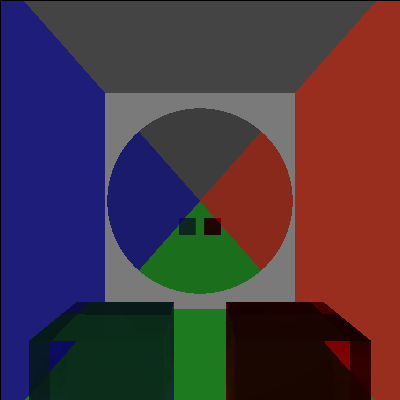
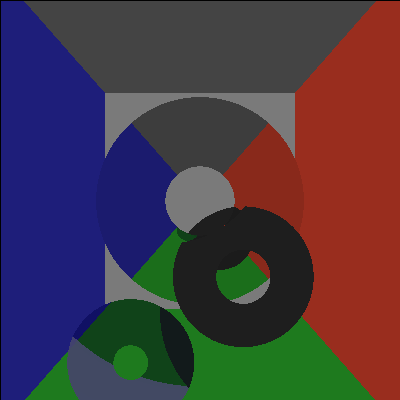
Donut

Changed region(s): [[0.06, 0.24, 0.93, 1.0]]

diff --git a/figuras.py b/figuras.py
@@ -140,6 +140,48 @@ class AABB(Shape):
                             texcoords=(u,v),
                             obj=self)
 
+
+"""
+    Pregunta a ChatGPT: Tengo la clase Disk y Plane. Plane dibuja un plano infinito utilizando lógica de RayTracer y Pygame.
+    Disk genera un disco delimitado por un radio que utiliza la clase Plane. Con ellas, ¿cómo puedo generar una clase 
+    que genere una figura similar a una dona?
+"""
+class Donut:
+    def __init__(self, position, material, major_radius, minor_radius):
+        self.position = position
+        self.material = material
+        self.major_radius = major_radius
+        self.minor_radius = minor_radius
+
+    def ray_intersect(self, origin, direction):
+        # Calcula la intersección con el plano central de la dona
+        central_plane = Plane(self.position, [0, 0, 1], self.material)
+        central_intercept = central_plane.ray_intersect(origin, direction)
+
+        if central_intercept is None:
+            return None
+
+        # Calcula la distancia al centro del toro
+        center_to_impact = restar_vectores(central_intercept.impact, self.position)
+        distance_to_center = magnitud(center_to_impact)
+
+        point = central_intercept.impact
+
+        # Comprueba si el punto de intersección está dentro del toro
+        if (distance_to_center >= self.minor_radius and
+                distance_to_center <= self.major_radius + self.minor_radius):
+            u = (1 + math.atan2(point[1], point[0]) / (2 * math.pi)) % 1
+            v = (magnitud(center_to_impact) - self.minor_radius) / (self.major_radius - self.minor_radius)
+
+            return Intercept(distance=distance_to_center,
+                            impact=central_intercept.impact,
+                            normal=central_intercept.normal,
+                            texcoords=(u,v),
+                            obj=self)
+
+
+        else:
+            return None
              
 
 

diff --git a/RT.py b/RT.py
@@ -32,16 +32,15 @@ rayTracer = RayTracer(screen)
 rayTracer.envMap = pygame.image.load("Textures/cielo.bmp")
 
 rayTracer.scene.append(Plane((0,0,-8),(0,0,-1),snow))
-rayTracer.scene.append(Disk((0,0,-7.85),(0,0,-1),mirror,2.1))
+rayTracer.scene.append(Donut((0,0,-5),mirror,1,0.5))
 rayTracer.scene.append(Plane((0,-2.5,0),(0,1,0),grass))
 rayTracer.scene.append(Plane((0,2.5,0),(0,-1,0),stone))
 rayTracer.scene.append(Plane((2.2,0,0),(-1,0,0),brick))
 rayTracer.scene.append(Plane((-2.2,0,0),(1,0,0),water))
 
 
-
-rayTracer.scene.append(AABB((-0.5,-1,-2),(0.65,0.65,0.65),diamond))
-rayTracer.scene.append(AABB((0.5,-1,-2),(0.65,0.65,0.65),ruby))
+rayTracer.scene.append(Donut((-0.3,-0.7,-1.5),diamond,0.2,0.075))
+rayTracer.scene.append(Donut((0.4,-0.7,-3.2),coal,0.4,0.25))
 
 rayTracer.lights.append(
     AmbientLight(intensity=0.6)
